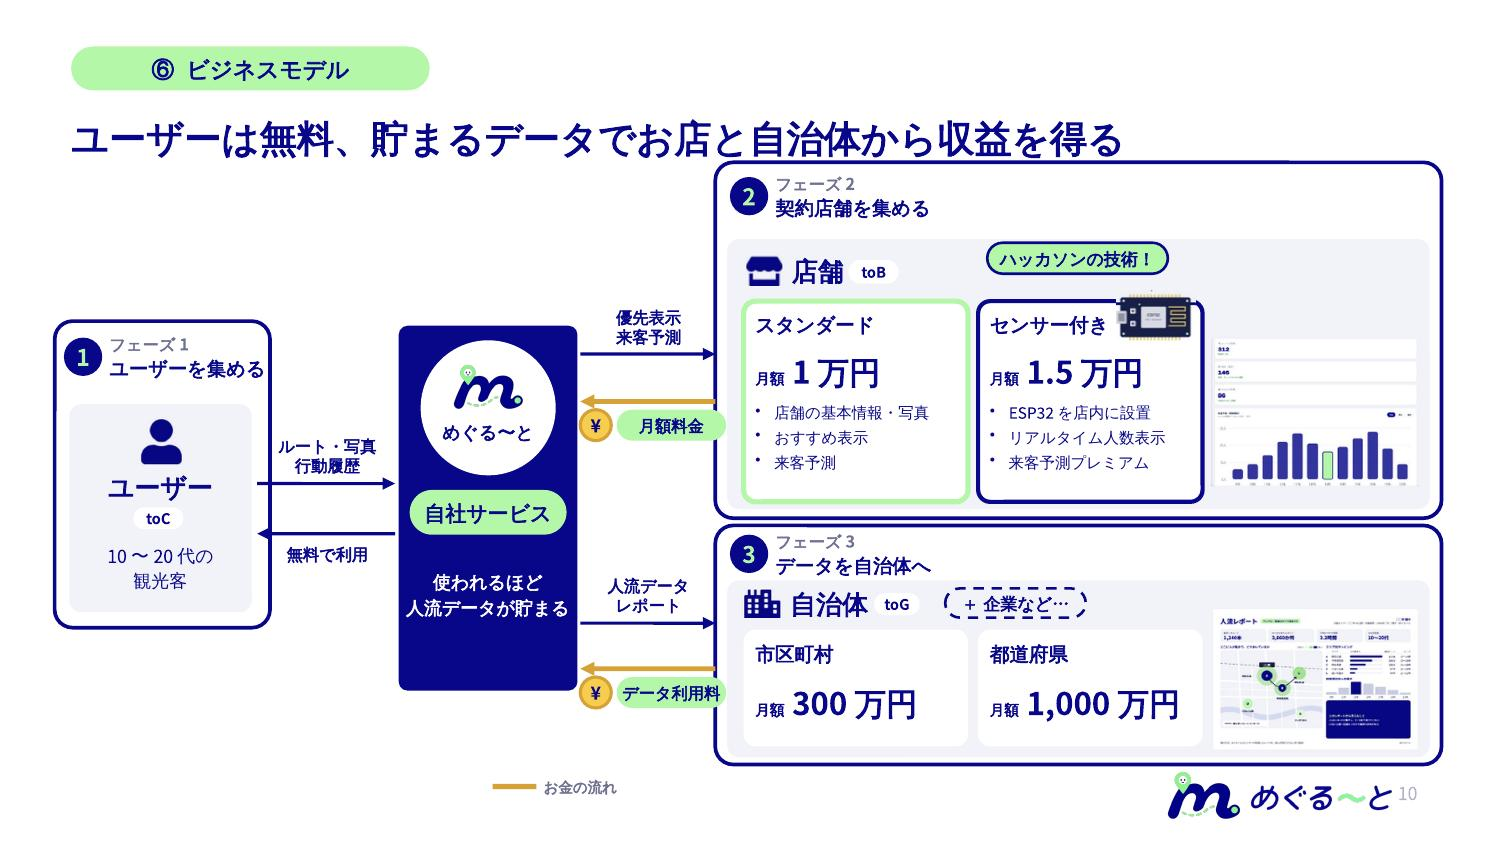
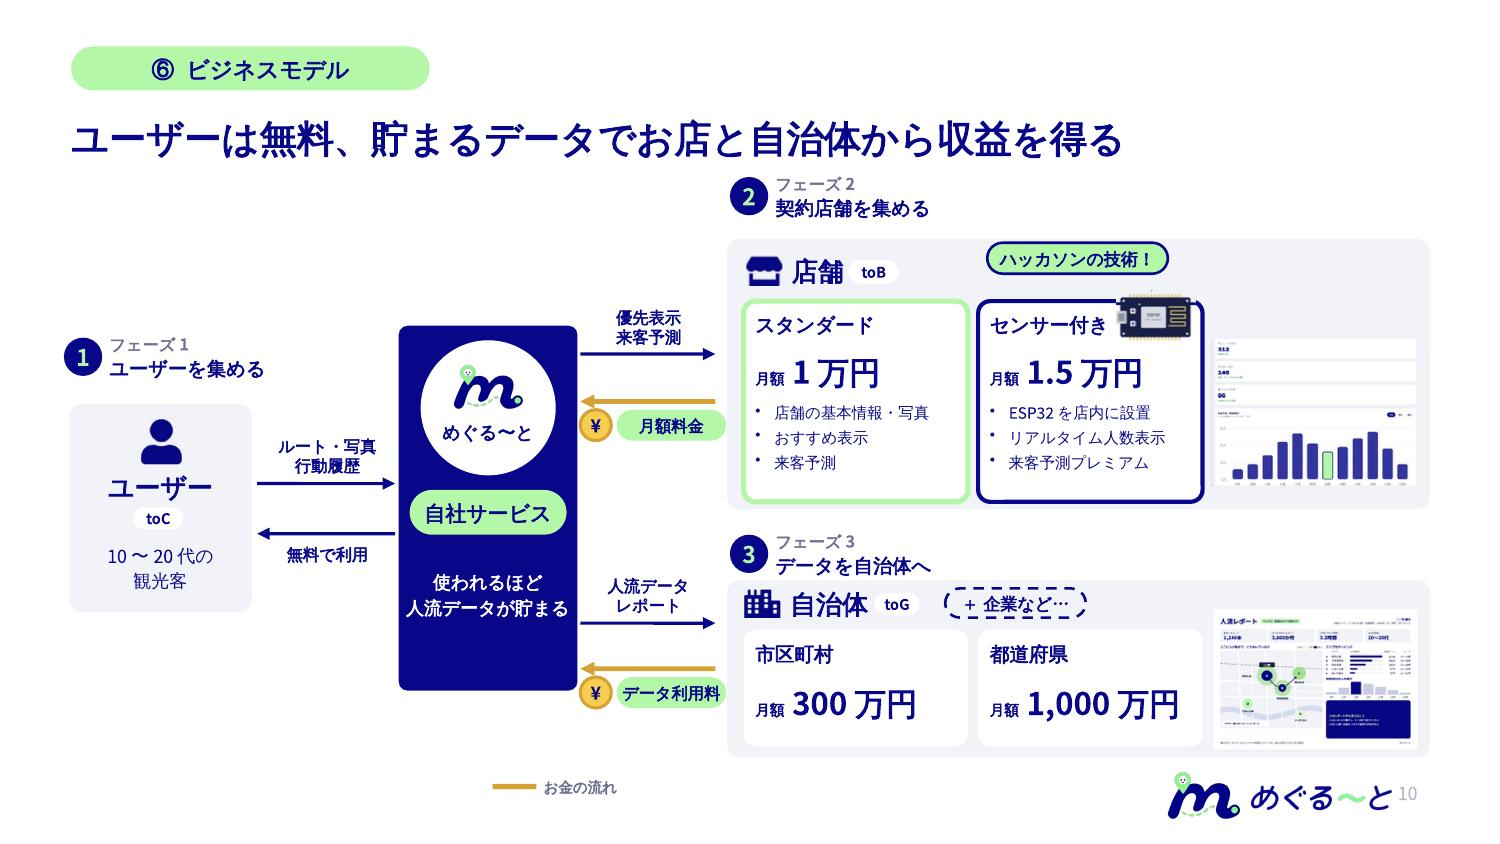
ビジネスモデルのスライドからフェーズの枠線を外し、番号と見出しだけにする
Claude-Session: https://claude.ai/code/session_01B51rQB77zdd1opeL9BAYQ4

diff --git a/slides/business-model/build.js b/slides/business-model/build.js
@@ -58,9 +58,8 @@ function mk(slide, k) {
   P.text("⑥ ビジネスモデル", 78, 51, 393, 48, { size: 10.9, bold: true, align: "center" });
   P.text("ユーザーは無料、貯まるデータでお店と自治体から収益を得る", 78, 112, 1500, 76, { size: 17.9, bold: true });
 
-  // phase frames (new): number badge + label, framed so the eye goes 1 → 2 → 3
+  // phase labels: number badge + label so the eye goes 1 → 2 → 3
   const phase = (n, label, title, fx, fy, fw, fh, lx, ly) => {
-    P.box(fx, fy, fw, fh, { line: NAVY, lw: 1.75, r: 0.12, name: `phase ${n} frame` });
     P.circle(lx, ly + 2, 42, { fill: NAVY, name: `phase ${n} badge` });
     P.text(String(n), lx, ly + 2, 42, 42, { size: 11, bold: true, color: MINT, align: "center" });
     P.text(label, lx + 50, ly - 2, 300, 22, { size: 7.8, bold: true, color: MUTED });
